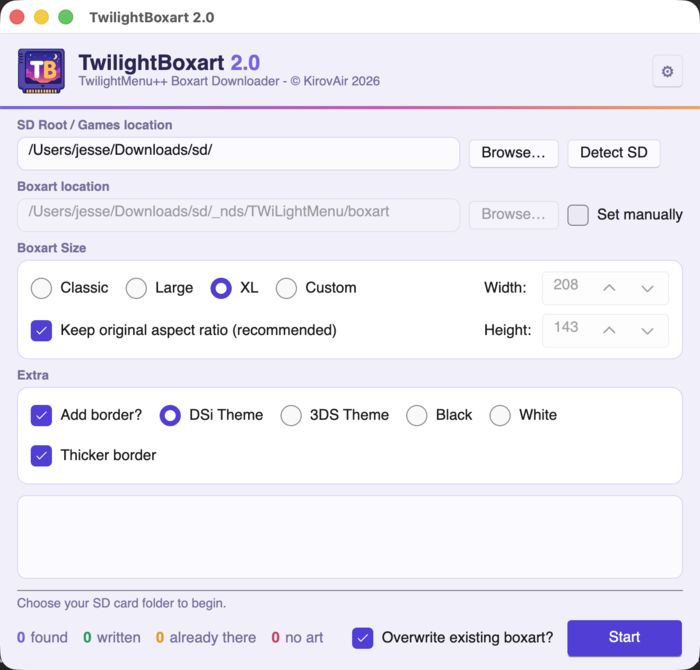
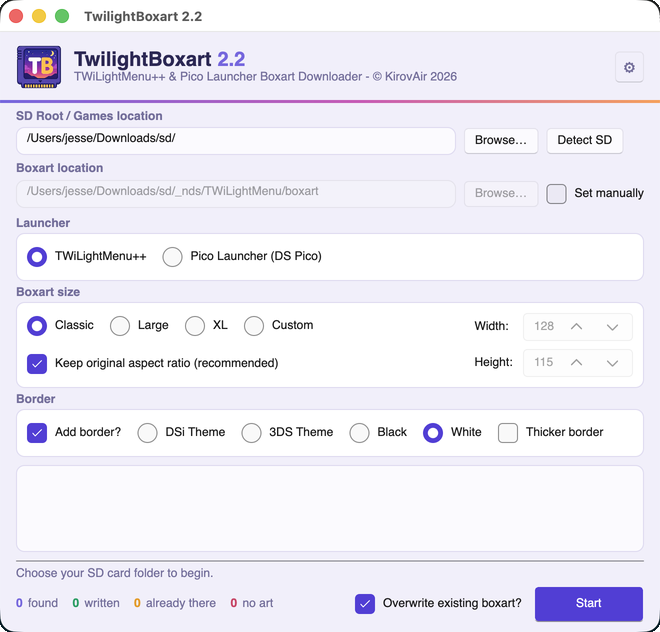
DS Pico fixes

diff --git a/TwilightBoxart.Web/wwwroot/index.html b/TwilightBoxart.Web/wwwroot/index.html
@@ -62,6 +62,15 @@
         </div>
         <nav class="topbar-actions">
             <button id="install" class="ghost" hidden>Install app</button>
+            <!-- The desktop and DS/DSi builds live on the releases page; this page is the browser one. -->
+            <a class="ghost iconbtn" href="https://github.com/KirovAir/TwilightBoxart/releases/latest" target="_blank"
+                rel="noopener">
+                <svg viewBox="0 0 16 16" width="16" height="16" aria-hidden="true">
+                    <path fill="currentColor"
+                        d="M8 1a.75.75 0 0 1 .75.75v6.44l2.22-2.22a.75.75 0 1 1 1.06 1.06l-3.5 3.5a.75.75 0 0 1-1.06 0l-3.5-3.5a.75.75 0 0 1 1.06-1.06l2.22 2.22V1.75A.75.75 0 0 1 8 1Zm-6 11.25a.75.75 0 0 1 1.5 0v1.25h9v-1.25a.75.75 0 0 1 1.5 0v1.5A1.25 1.25 0 0 1 12.75 15h-9.5A1.25 1.25 0 0 1 2 13.75v-1.5Z" />
+                </svg>
+                Download
+            </a>
             <a class="ghost iconbtn" href="https://github.com/KirovAir/TwilightBoxart" target="_blank"
                 rel="noopener">
                 <svg viewBox="0 0 16 16" width="16" height="16" aria-hidden="true">
@@ -210,7 +219,7 @@
 
     <footer>
         <p>
-            TwilightBoxart 2.0 · covers from <a href="https://www.gametdb.com">GameTDB</a> and
+            TwilightBoxart 2.2 · covers from <a href="https://www.gametdb.com">GameTDB</a> and
             <a href="https://github.com/libretro-thumbnails">libretro-thumbnails</a> · game info from
             <a href="https://no-intro.org">No-Intro</a> · made for
             <a href="https://github.com/DS-Homebrew/TWiLightMenu">TWiLightMenu++</a> ·

diff --git a/TwilightBoxart.Web/wwwroot/support.html b/TwilightBoxart.Web/wwwroot/support.html
@@ -154,7 +154,7 @@
     </main>
 
     <footer>
-        <p><a href="./">Back to TwilightBoxart 2.0</a> · covers from <a href="https://www.gametdb.com">GameTDB</a> and
+        <p><a href="./">Back to TwilightBoxart 2.2</a> · covers from <a href="https://www.gametdb.com">GameTDB</a> and
             <a href="https://github.com/libretro-thumbnails">libretro-thumbnails</a> · game info from
             <a href="https://no-intro.org">No-Intro</a></p>
         <p class="legal">

diff --git a/TwilightBoxart.Web/wwwroot/api.js b/TwilightBoxart.Web/wwwroot/api.js
@@ -22,7 +22,7 @@ const API_KEY = 'tb2_9f4c1d7a3e8b5062';
  * bumped alongside <Version> in Directory.Build.props, which is where every other copy comes from.
  */
 const CLIENT_HEADER = 'X-Twilight-Client';
-const CLIENT = 'web/2.1';
+const CLIENT = 'web/2.2';
 
 /** Server-side limits: <=500 items and <=1 MB per identify call. */
 export const IDENTIFY_CHUNK = 200;

diff --git a/TwilightBoxart.Core/Render/BoxartRenderer.cs b/TwilightBoxart.Core/Render/BoxartRenderer.cs
@@ -99,30 +99,59 @@ public sealed class BoxartRenderer : IBoxartRenderer
     }
 
     /// <summary>
-    /// A Pico Launcher cover: the art fitted into the visible 106x96, centred there on a black
-    /// 128x96 canvas (the launcher never shows the right 22 columns), as an 8bpp indexed BMP.
-    /// No border, no byte ladder: the file is 13,366 bytes by construction, so unlike the PNG
-    /// path the quantizer runs exactly once and dithering costs nothing.
+    /// How much of a dimension a Pico cover may lose to a centre crop before it letterboxes instead.
+    /// </summary>
+    /// <remarks>
+    /// Unlike the PNG path, where the cover is whatever size it needs to be, Pico's window is a fixed
+    /// 106x96, so every bit of aspect mismatch turns into black bars inside the cover. GameTDB serves
+    /// all its DS art at 768x680, which misses the window by 2% and so put a black line along the top
+    /// and bottom of every DS cover on the card. Art that is genuinely a different shape - a portrait
+    /// NES or Mega Drive box is half again as tall as the window - still letterboxes rather than
+    /// losing a third of itself.
+    /// </remarks>
+    private const double PicoMaxCrop = 0.12;
+
+    /// <summary>
+    /// A Pico Launcher cover: the art in the visible 106x96 on a black 128x96 canvas (the launcher
+    /// never shows the right 22 columns), as an 8bpp indexed BMP. No border, no byte ladder: the
+    /// file is 13,366 bytes by construction, so the quantizer runs exactly once.
     /// </summary>
     private static byte[] RenderPico(Image<Rgba32> artwork)
     {
-        var size = FitToAspectRatio(
-            artwork.Width, artwork.Height, RenderOptions.PicoVisibleWidth, RenderOptions.PicoHeight);
-        artwork.Mutate(context => context.Resize(size));
+        var window = new Size(RenderOptions.PicoVisibleWidth, RenderOptions.PicoHeight);
+
+        artwork.Mutate(context => context.Resize(new ResizeOptions
+        {
+            Size = window,
+            Mode = CropFraction(artwork.Size, window) <= PicoMaxCrop ? ResizeMode.Crop : ResizeMode.Pad,
+            PadColor = Color.Black,
+        }));
 
         using var canvas = new Image<Rgba32>(RenderOptions.PicoWidth, RenderOptions.PicoHeight);
         FillRows(canvas, Color.Black.ToPixel<Rgba32>());
-
-        var offset = new Point(
-            (RenderOptions.PicoVisibleWidth - size.Width) / 2,
-            (RenderOptions.PicoHeight - size.Height) / 2);
-        canvas.Mutate(context => context.DrawImage(artwork, offset, 1f));
+        canvas.Mutate(context => context.DrawImage(artwork, Point.Empty, 1f));
 
         return EncodeWith(canvas, new BmpEncoder
         {
             BitsPerPixel = BmpBitsPerPixel.Pixel8,
-            Quantizer = new WuQuantizer(new QuantizerOptions { MaxColors = 256 }),
+            // No dithering: 256 colours is generous for 106x96, and the launcher crushes the palette
+            // to 15-bit on load anyway, so error diffusion only adds speckle to a flat sky.
+            Quantizer = new WuQuantizer(new QuantizerOptions { MaxColors = 256, Dither = null }),
         });
+    }
+
+    /// <summary>Fraction of a dimension a centre crop would cut to fill <paramref name="target"/> exactly.</summary>
+    private static double CropFraction(Size source, Size target)
+    {
+        if (source.Width <= 0 || source.Height <= 0)
+        {
+            return 1;
+        }
+
+        var horizontal = (double)target.Width / source.Width;
+        var vertical = (double)target.Height / source.Height;
+
+        return 1 - (Math.Min(horizontal, vertical) / Math.Max(horizontal, vertical));
     }
 
     /// <summary>

diff --git a/TwilightBoxart.DSi/source/main.c b/TwilightBoxart.DSi/source/main.c
@@ -1206,7 +1206,7 @@ static int pick_network(Wifi_AccessPoint *chosen)
             } else {
                 printf("\nNo networks this radio can\njoin. DS mode does open or\nWEP only, on 2.4 GHz.\n\n");
             }
-            printf("\x1b[32;1mY:\x1b[37;1m scan again  \x1b[32;1mX:\x1b[37;1m type a name\n\x1b[31;1mSTART:\x1b[37;1m give up\n");
+            printf("\x1b[32;1mY:\x1b[37;1m Scan again  \x1b[32;1mX:\x1b[37;1m Type a name\n\x1b[31;1mSTART:\x1b[37;1m Give up\n");
             while (1) {
                 cothread_yield_irq(IRQ_VBLANK);
                 scanKeys();
@@ -1240,7 +1240,7 @@ static int pick_network(Wifi_AccessPoint *chosen)
                        i == row ? '>' : ' ', name, tag);
             }
             printf("\x1b[30;1m\nUP/DOWN + A to pick one.\n\n");
-            printf("\x1b[32;1mY:\x1b[30;1m rescan  \x1b[32;1mX:\x1b[30;1m type a name\n\x1b[31;1mSTART:\x1b[30;1m give up\x1b[37;1m\n");
+            printf("\x1b[32;1mY:\x1b[30;1m Rescan  \x1b[32;1mX:\x1b[30;1m Type a name\n\x1b[31;1mSTART:\x1b[30;1m Give up\x1b[37;1m\n");
 
             bool rescan = false;
             while (1) {
@@ -1395,7 +1395,7 @@ static bool connect_wifi(void)
                 }
                 settle_radio();
                 printf("\nThe network let us in but\nnever gave an IP address,\nand the usual hotspot\naddresses came up empty.\nTry another network.\n\n"
-                       "\x1b[32;1mA:\x1b[37;1m back to the list\n");
+                       "\x1b[32;1mA:\x1b[37;1m Back to the list\n");
                 while (1) {
                     cothread_yield_irq(IRQ_VBLANK);
                     scanKeys();
@@ -1450,10 +1450,10 @@ static bool options_menu(void)
         printf(g_config.quick_scan
                ? "\x1b[30;1mQuick may miss some covers.\x1b[37;1m\n"
                : "\n");
-        printf("\x1b[37;1m\n \x1b[32;1mA:\x1b[37;1m scan and download\n"
-               " \x1b[32;1mX:\x1b[37;1m music %s\n"
-               " \x1b[32;1mY:\x1b[37;1m reset settings\n"
-               " \x1b[32;1mSTART:\x1b[37;1m quit\n", g_config.mute ? "off" : "on");
+        printf("\x1b[37;1m\n \x1b[32;1mA:\x1b[37;1m Scan and download\n"
+               " \x1b[32;1mX:\x1b[37;1m Music %s\n"
+               " \x1b[32;1mY:\x1b[37;1m Reset settings\n"
+               " \x1b[32;1mSTART:\x1b[37;1m Quit\n", g_config.mute ? "off" : "on");
 
         while (1) {
             cothread_yield_irq(IRQ_VBLANK);
@@ -1501,8 +1501,8 @@ static bool options_menu(void)
                        "password, the box art choices,\n"
                        "and any backend the card was\n"
                        "pointed at.\n\n"
-                       " \x1b[32;1mA:\x1b[37;1m reset\n"
-                       " \x1b[32;1mB:\x1b[37;1m keep them\n");
+                       " \x1b[32;1mA:\x1b[37;1m Reset\n"
+                       " \x1b[32;1mB:\x1b[37;1m Keep them\n");
                 bool reset = false;
                 while (1) {
                     cothread_yield_irq(IRQ_VBLANK);

diff --git a/TwilightBoxart.Tests/BoxartRendererTests.cs b/TwilightBoxart.Tests/BoxartRendererTests.cs
@@ -199,13 +199,32 @@ public class BoxartRendererTests
         var clrUsed = BinaryPrimitives.ReadInt32LittleEndian(bmp.AsSpan(46, 4));
         Assert.IsTrue(clrUsed is 0 or 256, $"clrUsed {clrUsed} is outside the launcher's accepted values");
 
-        // A wide cover is height-bound into the visible 106 columns; the 22 the launcher never
-        // shows stay black. Decoded checks, so palette indirection is exercised too.
+        // The 22 columns the launcher never shows stay black. Decoded checks, so palette
+        // indirection is exercised too.
         var pixels = Decode(bmp);
         Assert.AreEqual(new Rgba32(0, 0, 0, 255), pixels[RenderOptions.PicoWidth - 1, 48],
             "the padding columns must stay black");
         Assert.AreNotEqual(new Rgba32(0, 0, 0, 255), pixels[53, 48],
             "the visible area should carry the artwork");
+    }
+
+    [TestMethod]
+    public void BoxartRenderer_FillsThePicoWindowUnlessTheArtIsADifferentShape()
+    {
+        // GameTDB serves every DS cover at 768x680, 2% off the fixed 106x96 window, and fitting it
+        // put a black line along the top and bottom of every cover on the card. A portrait box
+        // misses by far too much to crop away, so it keeps its bars.
+        var options = new RenderOptions { Target = RenderTarget.Pico };
+        var black = new Rgba32(0, 0, 0, 255);
+
+        using var ds = Decode(new BoxartRenderer().Render(Cover(768, 680), options));
+        Assert.AreNotEqual(black, ds[53, 0], "a near-fitting cover should reach the top of the window");
+        Assert.AreNotEqual(black, ds[53, RenderOptions.PicoHeight - 1], "and the bottom");
+        Assert.AreNotEqual(black, ds[RenderOptions.PicoVisibleWidth - 1, 48], "and the last visible column");
+
+        using var portrait = Decode(new BoxartRenderer().Render(Cover(355, 512), options));
+        Assert.AreEqual(black, portrait[0, 48], "a portrait cover letterboxes rather than losing its edges");
+        Assert.AreNotEqual(black, portrait[53, 48], "but still carries the artwork");
     }
 
     [TestMethod]

diff --git a/docs/README.md b/docs/README.md
@@ -3,4 +3,6 @@
 - `logo.png`: the project logo, high-res master for the app icons.
 - `twilight-bg.png`: high-res master for the DSi app's bottom-screen background
   (`TwilightBoxart.DSi/graphics/bottom.png` is derived from it).
-- `webapp.jpg`: README screenshot of the web app.
+- `webapp.png`: README screenshot of the web app.
+- `desktop.png`: README screenshot of the desktop app, captured on macOS.
+- `dsi.png`: README screenshot of the DS/DSi client's options menu, captured in melonDS.
